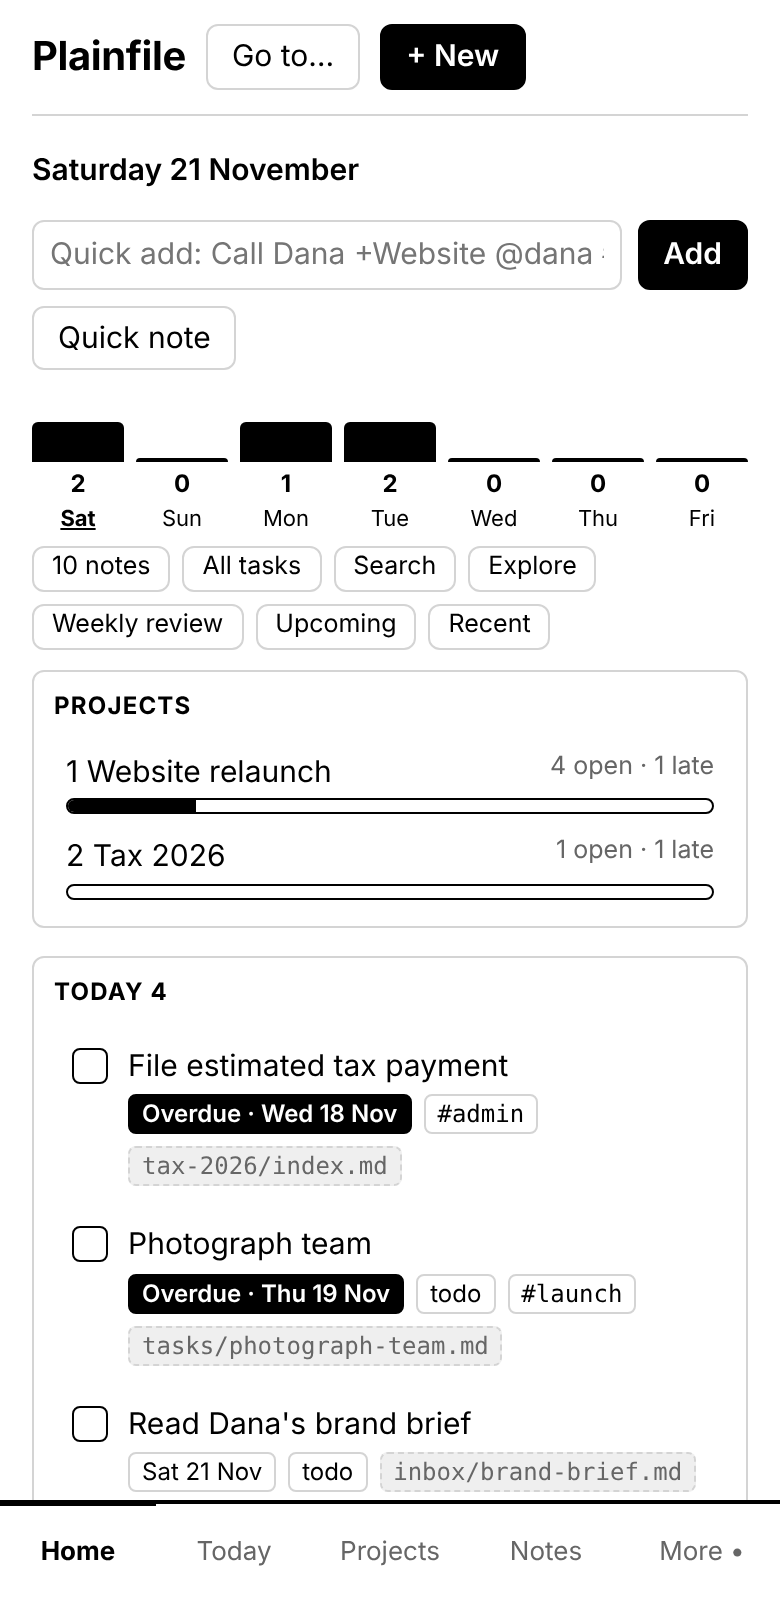
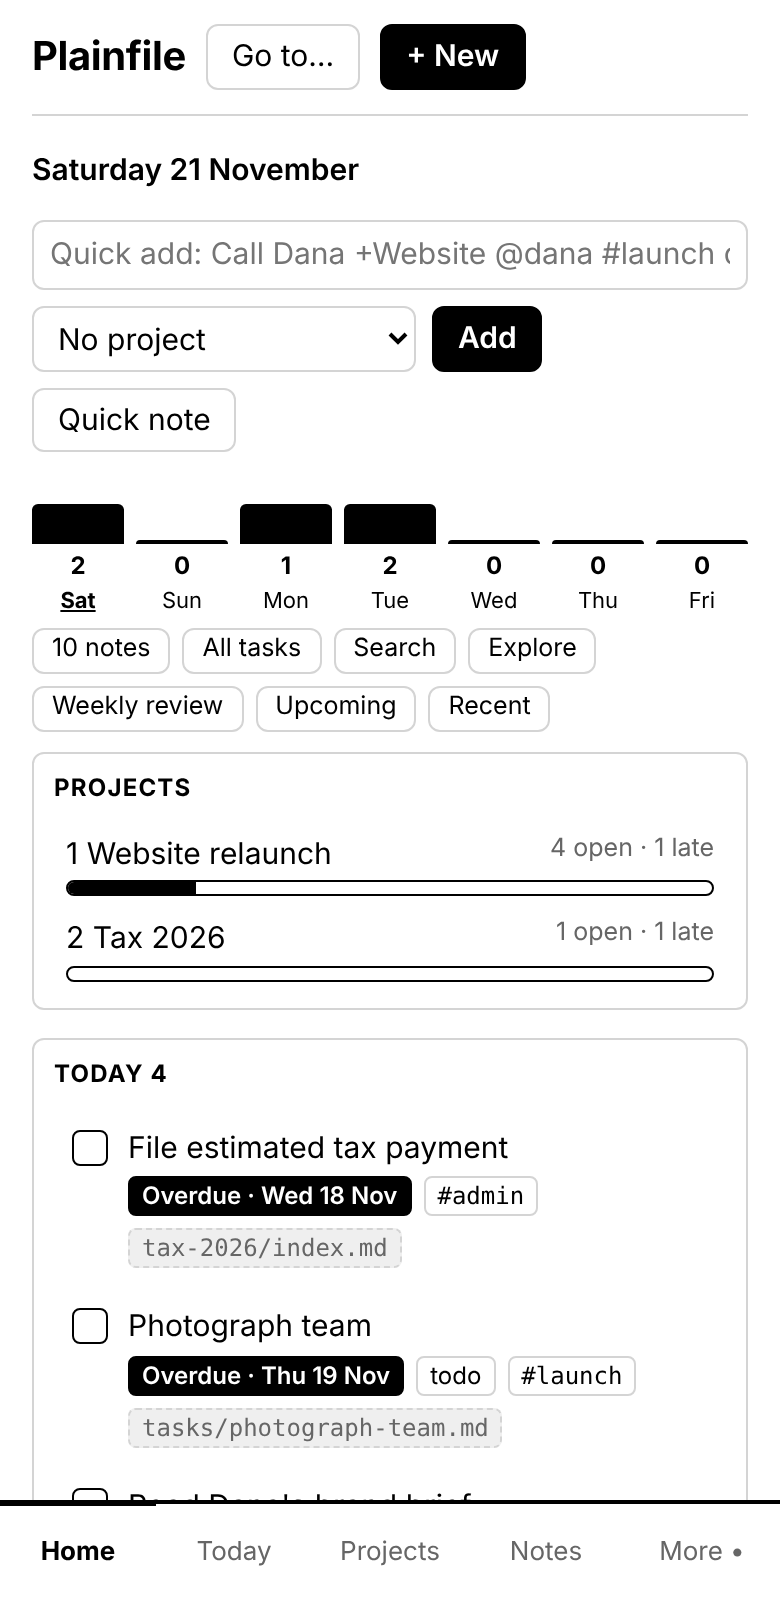
Add a project picker to the quick add (0.47.2)
Claude-Session: https://claude.ai/code/session_01R4FEdBw4QsP4joija6qyER

diff --git a/web/today.ts b/web/today.ts
@@ -6,15 +6,19 @@ import { loadContext, justDone, planQuickLine, quickAddLine, render, state, toda
 import { logHtml, row, toggleTask } from './tasks';
 import { esc } from './util';
 
-export const quick = { text: '', error: '' };
+export const quick = { text: '', error: '', /** Path of the project picked beside the box, or ''. Kept between adds. */ project: '' };
 
 /**
  * The one-line quick add used on Home and on the Tasks tab: the form (with a Quick note button), a live preview of
  * how the line will be filed, and the last error. Home puts the form beside the date, so the parts come separately.
  */
 export function quickBar(cls = ''): { form: string; below: string } {
+  const projects = state.index ? listProjects(state.index).filter((p) => p.active) : [];
+  const picker = projects.length
+    ? `<select class="inp quick-project" data-quick-project aria-label="Project for this task"><option value="">No project</option>${projects.map((p) => `<option value="${esc(p.path)}"${p.path === quick.project ? ' selected' : ''}>${esc(p.title)}</option>`).join('')}</select>`
+    : '';
   return {
-    form: `<form class="quick ${cls}" data-quick><label class="sr" for="quick-text">Add a task</label><input id="quick-text" class="inp" type="text" autocomplete="off" data-suggest="line" placeholder="Quick add: Call Dana +Website @dana #launch due:friday" value="${esc(quick.text)}"><button class="btn primary" type="submit">Add</button><button class="btn" type="button" data-quick-note>Quick note</button></form>`,
+    form: `<form class="quick ${cls}" data-quick><label class="sr" for="quick-text">Add a task</label><input id="quick-text" class="inp" type="text" autocomplete="off" data-suggest="line" placeholder="Quick add: Call Dana +Website @dana #launch due:friday" value="${esc(quick.text)}">${picker}<button class="btn primary" type="submit">Add</button><button class="btn" type="button" data-quick-note>Quick note</button></form>`,
     below: `<div id="quick-preview" class="qprev small muted" aria-live="polite">${quickPreview(quick.text)}</div>${quick.error ? `<div class="notice err small">${esc(quick.error)}</div>` : ''}`,
   };
 }
@@ -22,7 +26,7 @@ export function quickBar(cls = ''): { form: string; below: string } {
 /** One line under the box saying how the typed text will be filed: where it goes, who, what tags, which day. */
 export function quickPreview(line: string): string {
   if (!line.trim()) return '<span class="qhint">One line is enough: <code>Email Sam +Project @sam #tag due:tomorrow</code>. It becomes a task note, shown in your Inbox (or filed in the project), dated today.</span>';
-  const { parsed, project, error } = planQuickLine(line);
+  const { parsed, project, error } = planQuickLine(line, quick.project);
   if (error) return `<span class="err-text">${esc(error)}</span>`;
   const bits = [`Task note "${esc(parsed.title || parsed.text)}" in <b>${esc(project ? project.title : 'Inbox')}</b>`];
   if (parsed.due) bits.push(`due <b>${esc(fmtDate(parsed.due))}</b>`);
@@ -236,7 +240,7 @@ async function select(id: string): Promise<void> {
 
 export async function submitQuick(): Promise<void> {
   const due = planQuickLine(quick.text).parsed.due;
-  const err = await quickAddLine(quick.text);
+  const err = await quickAddLine(quick.text, quick.project);
   quick.error = err ?? '';
   if (!err) {
     quick.text = '';
@@ -283,6 +287,15 @@ export async function click(target: HTMLElement): Promise<boolean> {
     return true;
   }
   return false;
+}
+
+export function change(e: Event): boolean {
+  const t = e.target as HTMLSelectElement;
+  if (!t.matches?.('[data-quick-project]')) return false;
+  quick.project = t.value;
+  const prev = document.getElementById('quick-preview');
+  if (prev) prev.innerHTML = quickPreview(quick.text);
+  return true;
 }
 
 export function input(e: Event): boolean {

diff --git a/web/store.ts b/web/store.ts
@@ -279,9 +279,10 @@ export async function quickAddTask(input: { title: string; due?: string; tags?: 
 }
 
 /** Where a typed line will go, and what it means, so the preview and the save agree. */
-export function planQuickLine(line: string): { parsed: QuickLine; project?: Project; error?: string } {
+export function planQuickLine(line: string, chosen = ''): { parsed: QuickLine; project?: Project; error?: string } {
   const parsed = parseQuickLine(line, today());
-  let project: Project | undefined;
+  // A +Project typed in the line wins; otherwise the project picked beside the box, if any.
+  let project: Project | undefined = parsed.project === undefined && chosen && state.index ? listProjects(state.index).find((p) => p.path === chosen) : undefined;
   if (parsed.project !== undefined && state.index) {
     project = findProject(listProjects(state.index), parsed.project);
     if (!project) return { parsed, error: `No project called "${parsed.project}". Make it from + New, or leave off the +.` };
@@ -291,9 +292,9 @@ export function planQuickLine(line: string): { parsed: QuickLine; project?: Proj
 }
 
 /** Add one typed line such as "Call Dana +Website @dana due:friday" as a task note. Returns an error message, or null on success. */
-export async function quickAddLine(line: string): Promise<string | null> {
+export async function quickAddLine(line: string, chosen = ''): Promise<string | null> {
   if (!state.storage || !state.index) return 'Open a folder first.';
-  const plan = planQuickLine(line);
+  const plan = planQuickLine(line, chosen);
   if (plan.error) return plan.error;
   const { parsed, project } = plan;
   return quickAddTask({ title: parsed.title || parsed.text, due: parsed.due, tags: parsed.tags, people: parsed.people, project });

diff --git a/tests/e2e/projects.spec.ts b/tests/e2e/projects.spec.ts
@@ -573,3 +573,22 @@ test('the Tasks tab adds a task from one line, like Home, and it shows up in the
   await expect(page.locator('.hub-content')).toContainText('Call Dana');
   await expect(page.locator('#quick-text')).toHaveValue('');
 });
+
+test('a project picked beside the quick add files the task there, and a typed +Project wins', async ({ page }) => {
+  await page.goto('/');
+  const dir = await openVault(page, {
+    'projects/a/index.md': '---\ntitle: Alpha\ntype: project\nactive: true\n---\n',
+    'projects/b/index.md': '---\ntitle: Beta\ntype: project\nactive: true\n---\n',
+  });
+  await nav(page, 'Tasks').click();
+  await page.locator('[data-quick-project]').selectOption({ label: 'Alpha' });
+  await page.locator('#quick-text').fill('Picked job');
+  await expect(page.locator('#quick-preview')).toContainText('Alpha');
+  await page.locator('#quick-text').press('Enter');
+  await expect.poll(async () => (await listFiles(page, dir)).includes('projects/a/tasks/Picked job.md')).toBe(true);
+  // The choice stays for the next one; a +Project in the line overrides it.
+  await expect(page.locator('[data-quick-project]')).toHaveValue('projects/a/index.md');
+  await page.locator('#quick-text').fill('Typed job +Beta');
+  await page.locator('#quick-text').press('Enter');
+  await expect.poll(async () => (await listFiles(page, dir)).includes('projects/b/tasks/Typed job.md')).toBe(true);
+});

diff --git a/web/app.css b/web/app.css
@@ -745,3 +745,4 @@ kbd { border: 1px solid var(--fg); border-radius: 4px; padding: 0 5px; font: 12p
 .changelog h3 { font-size: 12px; text-transform: uppercase; letter-spacing: 0.05em; color: var(--mute); margin: 10px 0 2px; }
 .hub-quick { display: flex; gap: 8px; margin: 0 0 6px; }
 .hub-quick .inp { flex: 1; min-width: 0; }
+.home-quick .quick-project, .hub-quick .quick-project { flex: 0 1 11rem; max-width: 11rem; }

diff --git a/web/main.ts b/web/main.ts
@@ -523,6 +523,7 @@ app.addEventListener('input', (e) => {
 
 app.addEventListener('change', (e) => {
   if (state.screen === 'projects' && projectScreen.change(e)) return;
+  if (todayScreen.change(e)) return;
   if (state.screen === 'review' && reviewScreen.change(e)) return;
   if (state.screen === 'calendar' && calendarScreen.change(e)) return;
   if (rename.change(e)) return;

diff --git a/CHANGELOG.md b/CHANGELOG.md
@@ -4,6 +4,11 @@ All notable changes to this project are documented here. Versions follow
 `MAJOR.MINOR.PATCH`. The version in `package.json` is bumped on every
 deploy-intended change, together with an entry here.
 
+## [0.47.2] - 2026-11-23
+
+### Added
+- **Pick a project when adding a task.** The quick add on Home and on the Tasks tab has a project picker beside Add. The task is filed in that project (in its folder, with `project:` set). A `+Project` typed in the line wins over the picker, and the choice is kept for the next task so you can add several in a row.
+
 ## [0.47.1] - 2026-11-23
 
 ### Added
